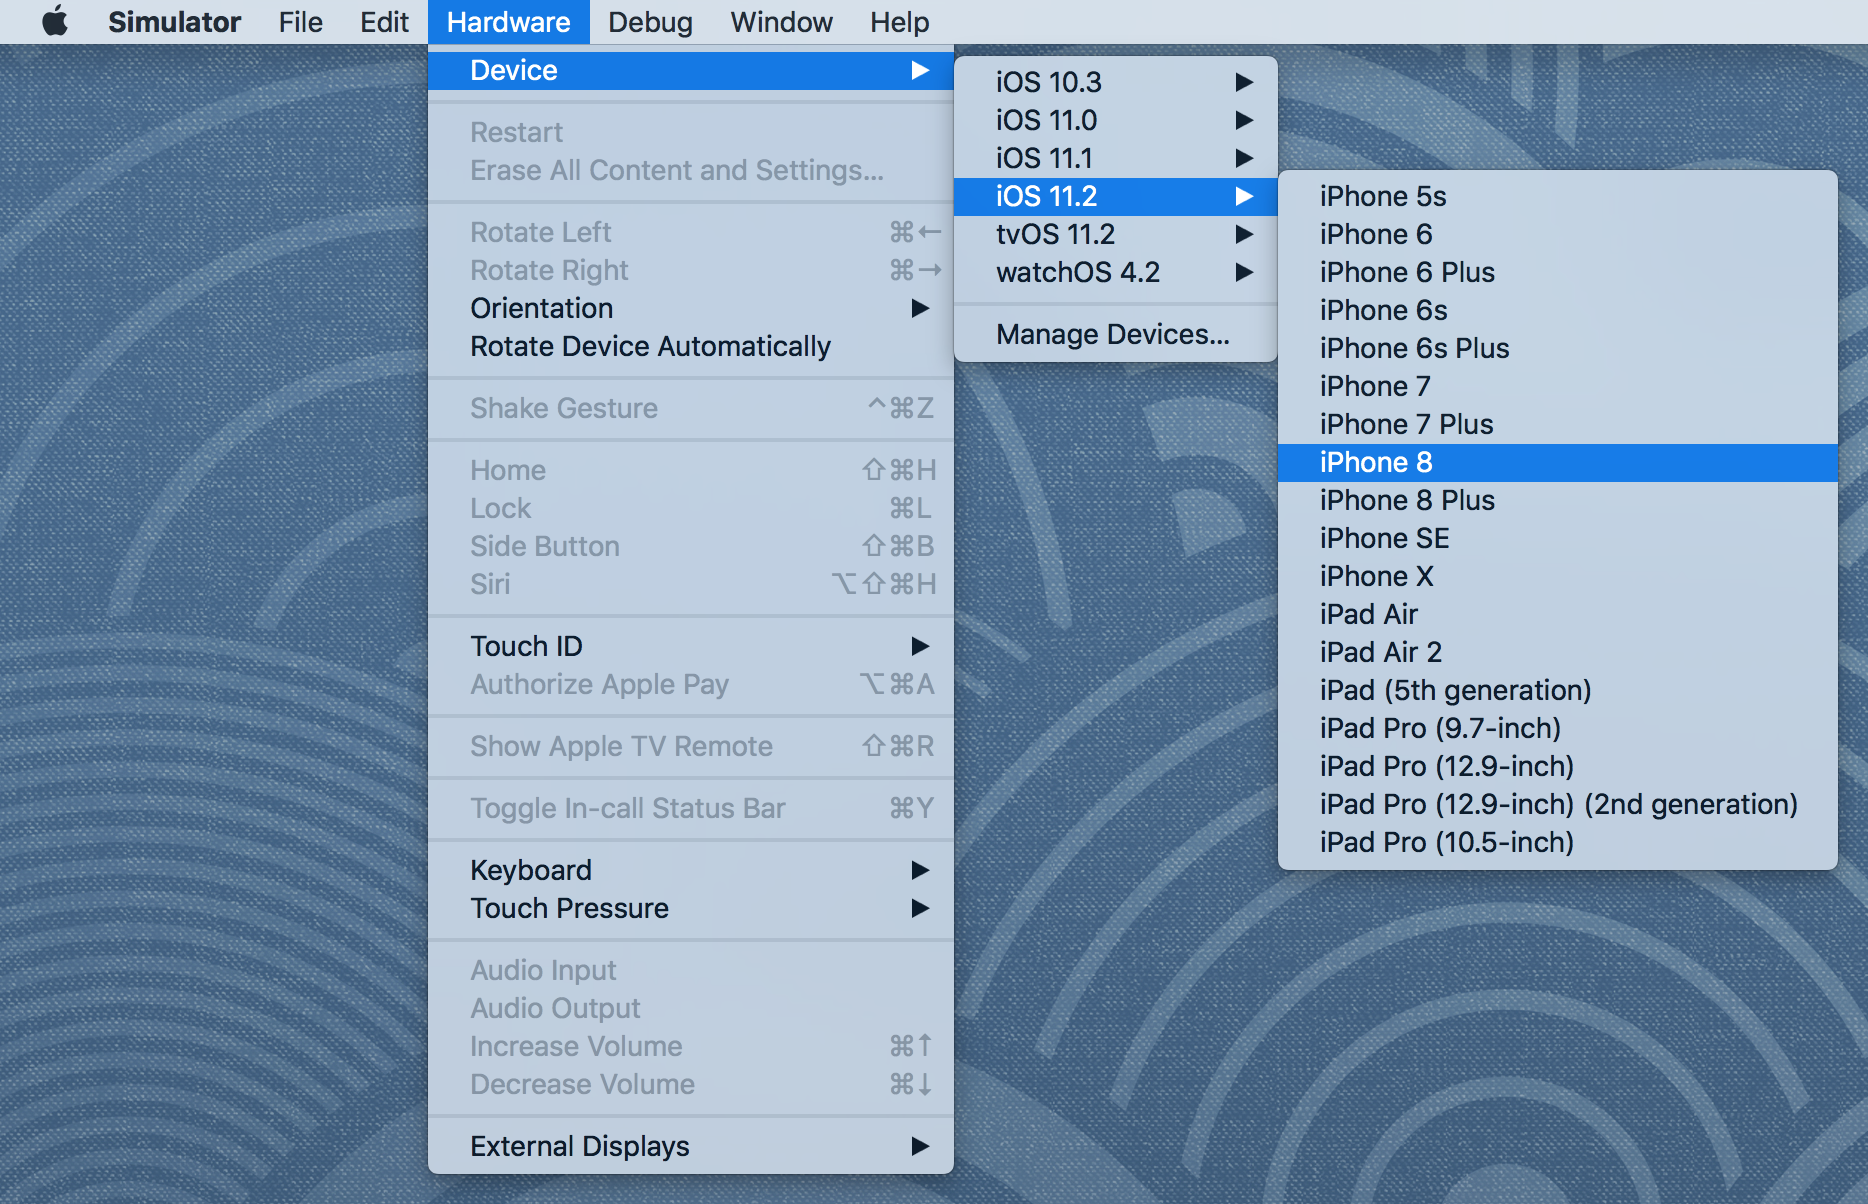
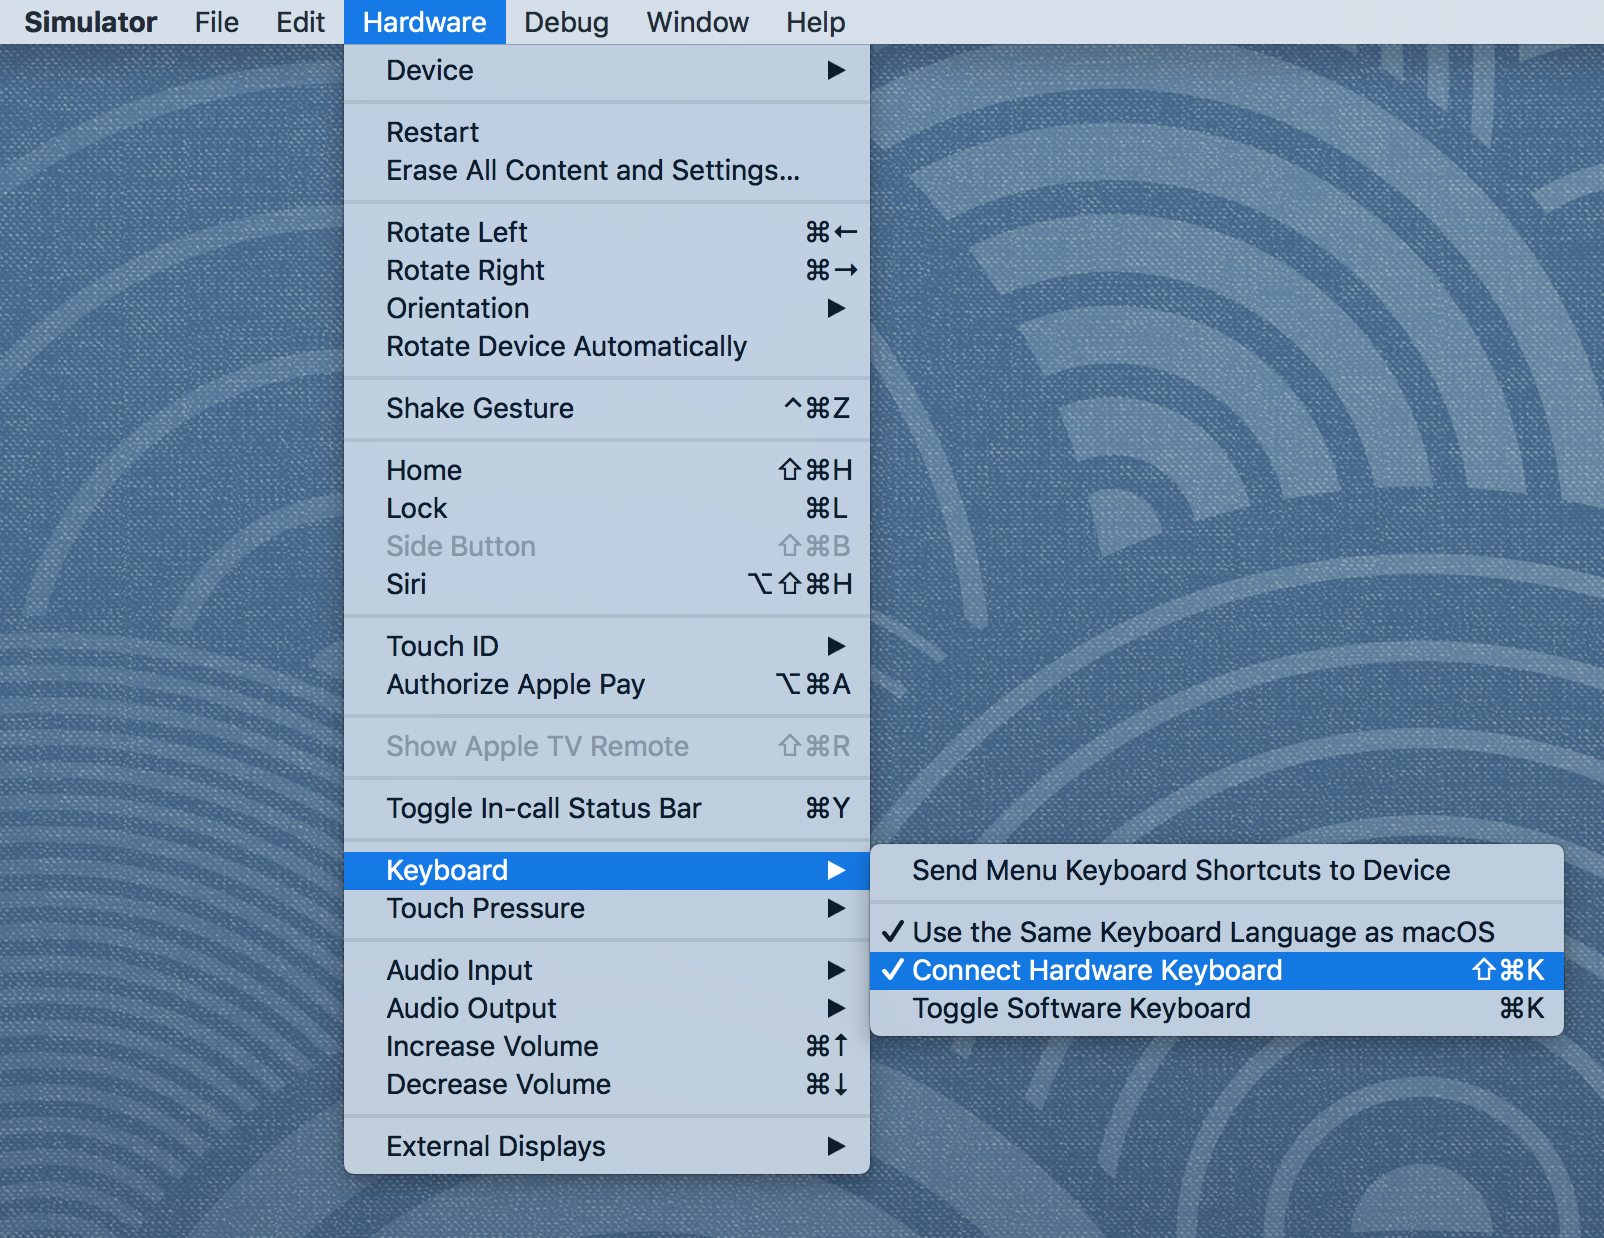
GitBook: [doc-ios] one page and 4 assets modified

diff --git a/docs/contributing/ios-development-guide.md b/docs/contributing/ios-development-guide.md
@@ -12,7 +12,7 @@ We do not currently have instructions on developing for iOS using Windows or Lin
   * Install Xcode
 * Development
   * Open Simulator
-  * Disable Virtual Keyboard in Simulator
+  * IMPORTANT! Disconnect Hardware Keyboard in Simulator
   * Open Safari
   * Enter Debug for Simulator
 
@@ -50,13 +50,33 @@ To start a Device:
 
 After starting the device, you will see a working simulation of the device on the screen.
 
-![Simulator running iOS 11.2 on an iPhone 8](../.gitbook/assets/image%20%284%29.png)
+![Simulator running iOS 11.2 on an iPhone 8](../.gitbook/assets/image%20%286%29.png)
 
-Open Safari on the device by clicking the Safari icon \(it's the one that looks like a compass\).
+Open the Safari app on the device by clicking the Safari icon \(it's the blue circle that looks like a compass in the lower left of the screen\).
 
 Once Safari is open, enter the URL you wish to work on. For now, try entering `slatejs.org` to visite the Slate Examples page on the Internet.
 
 ![slatejs.org on Safari for iOS](../.gitbook/assets/image.png)
 
+### IMPORTANT! Disconnect Hardware Keyboard
 
+In order to test iOS with Slate, you must disconnect the hardware keyboard.
+
+> If you do not do this, the virtual keyboard that usually appears on iOS when you are editing will not appear. iOS will behave as if a hardware keyboard has been attached to the device.
+>
+> It is important to display the virtual keyboard because some important bugs and edge cases do not present themselves when a hardware keyboard is attached.
+
+To disconnect the hardware keyboard in Simulator
+
+* Open the **Hardware** menu
+* Select **Keyboard** from the sub-menu
+* Make sure **Connect Hardware Keyboard** is unchecked
+* If it is checked \(like in the screenshot below\) then click it to toggle it off.
+* If it is already unchecked, then exit the menu.
+
+![](../.gitbook/assets/image%20%283%29.png)
+
+You can confirm that you have successfully disconnected the hardware keyboard by clicking in the editor from the SlateJS Examples site at http://slatejs.org. You should see the virtual keyboard appear as in the screenshot below.
+
+![iOS Virtual Keyboard confirms hardware keyboard is disconnected](../.gitbook/assets/image%20%285%29.png)
 
